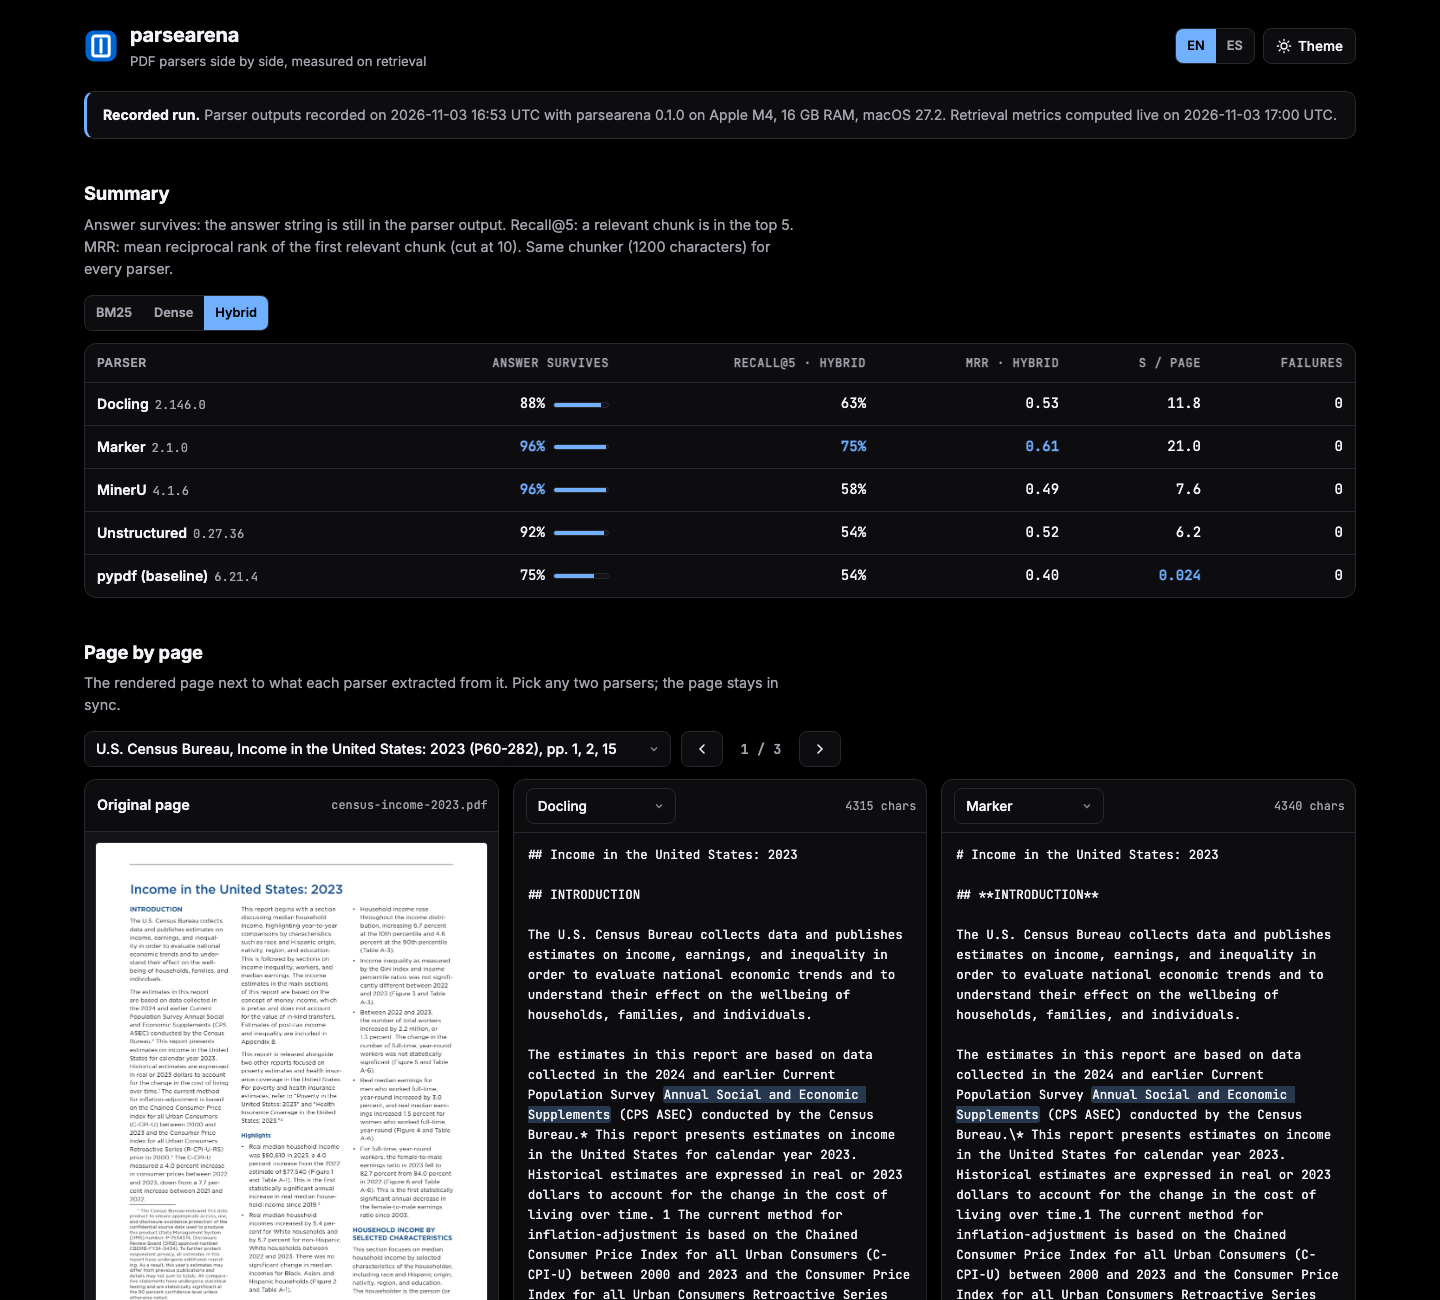
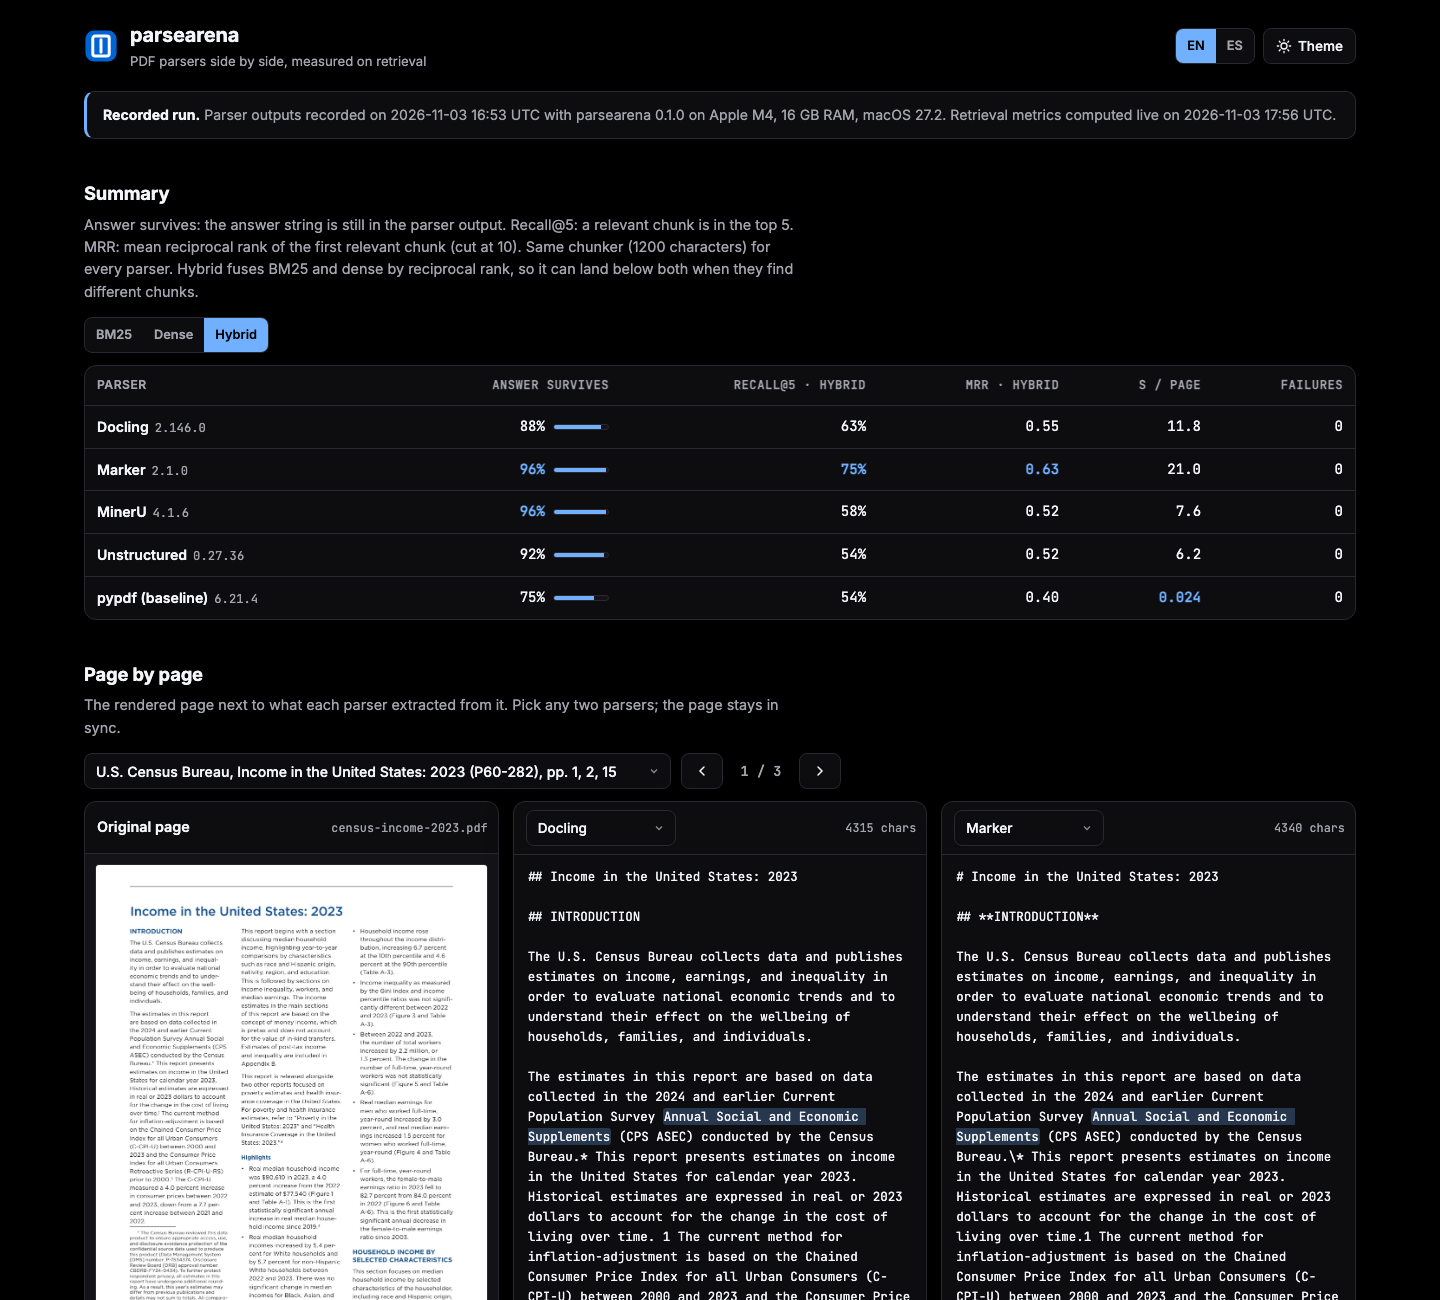
fix: tie-aware rank fusion, quiet embedding download, release 0.1.1

diff --git a/src/parsearena/report_template.html b/src/parsearena/report_template.html
@@ -228,7 +228,7 @@ pre.out mark { background: var(--mark); color: inherit; border-radius: 3px; padd
       tagline: "PDF parsers side by side, measured on retrieval",
       theme: "Theme",
       h_summary: "Summary", h_viewer: "Page by page", h_questions: "Questions", h_timing: "Timing", h_failures: "Failures",
-      summary_sub: "Answer survives: the answer string is still in the parser output. Recall@{k}: a relevant chunk is in the top {k}. MRR: mean reciprocal rank of the first relevant chunk (cut at {c}). Same chunker ({chars} characters) for every parser.",
+      summary_sub: "Answer survives: the answer string is still in the parser output. Recall@{k}: a relevant chunk is in the top {k}. MRR: mean reciprocal rank of the first relevant chunk (cut at {c}). Same chunker ({chars} characters) for every parser. Hybrid fuses BM25 and dense by reciprocal rank, so it can land below both when they find different chunks.",
       viewer_sub: "The rendered page next to what each parser extracted from it. Pick any two parsers; the page stays in sync.",
       questions_sub: "Rank of the first chunk that contains the answer, for the selected retrieval method.",
       timing_sub: "Seconds per page exclude model loading: each parser first converts an untimed two-page warm-up PDF (one text page, one image-only page), reported as warm-up.",
@@ -248,7 +248,7 @@ pre.out mark { background: var(--mark); color: inherit; border-radius: 3px; padd
       tagline: "Parsers de PDF lado a lado, medidos en recuperación",
       theme: "Tema",
       h_summary: "Resumen", h_viewer: "Página a página", h_questions: "Preguntas", h_timing: "Tiempos", h_failures: "Fallos",
-      summary_sub: "La respuesta sobrevive: el texto de la respuesta sigue en la salida del parser. Recall@{k}: un fragmento relevante está entre los {k} primeros. MRR: rango recíproco medio del primer fragmento relevante (corte en {c}). El mismo troceado ({chars} caracteres) para todos.",
+      summary_sub: "La respuesta sobrevive: el texto de la respuesta sigue en la salida del parser. Recall@{k}: un fragmento relevante está entre los {k} primeros. MRR: rango recíproco medio del primer fragmento relevante (corte en {c}). El mismo troceado ({chars} caracteres) para todos. La híbrida fusiona BM25 y densa por rango recíproco, así que puede quedar por debajo de ambas si encuentran fragmentos distintos.",
       viewer_sub: "La página renderizada junto a lo que cada parser extrajo de ella. Elige dos parsers; la página va sincronizada.",
       questions_sub: "Posición del primer fragmento que contiene la respuesta, con el método de recuperación elegido.",
       timing_sub: "Los segundos por página no incluyen la carga de modelos: cada parser convierte antes, sin cronometrar, un PDF de calentamiento de dos páginas (una con texto y otra solo imagen).",

diff --git a/src/parsearena/retrieval.py b/src/parsearena/retrieval.py
@@ -54,6 +54,7 @@ class FastEmbedder:
     """Local ONNX embeddings through fastembed. No torch, no network after the first download."""
 
     def __init__(self, model: str = DEFAULT_EMBED_MODEL, cache_dir: str | None = None) -> None:
+        quiet_hf_hub()
         from fastembed import TextEmbedding
 
         self.name = model
@@ -68,21 +69,70 @@ class FastEmbedder:
         return _unit(np.array(list(self._model.query_embed(list(texts))), dtype=np.float32))
 
 
+def quiet_hf_hub() -> None:
+    """Silence Hugging Face Hub progress bars and warnings; the CLI prints its own line."""
+    import logging
+    import os
+    import warnings
+
+    os.environ.setdefault("HF_HUB_DISABLE_PROGRESS_BARS", "1")
+    os.environ.setdefault("HF_HUB_VERBOSITY", "error")
+    os.environ.setdefault("HF_HUB_DISABLE_TELEMETRY", "1")
+    os.environ.setdefault("TQDM_DISABLE", "1")
+    logging.getLogger("huggingface_hub").setLevel(logging.ERROR)
+    warnings.filterwarnings("ignore", module="huggingface_hub")
+    try:
+        from huggingface_hub.utils import disable_progress_bars
+        from huggingface_hub.utils import logging as hf_logging
+
+        disable_progress_bars()
+        hf_logging.set_verbosity_error()
+    except Exception:  # noqa: BLE001 - only cosmetic
+        pass
+    try:
+        from loguru import logger
+
+        logger.disable("fastembed")
+    except Exception:  # noqa: BLE001
+        pass
+
+
+def model_is_cached(model: str, cache_dir: str) -> bool:
+    from pathlib import Path
+
+    key = model.split("/")[-1].lower()
+    root = Path(cache_dir)
+    return root.exists() and any(key in p.name.lower() for p in root.iterdir() if p.is_dir())
+
+
 def _unit(m: np.ndarray) -> np.ndarray:
     norms = np.linalg.norm(m, axis=1, keepdims=True)
     norms[norms == 0] = 1.0
     return m / norms
 
 
-def ranking(scores: Sequence[float]) -> list[int]:
-    """Indices sorted by score, best first; ties keep corpus order."""
-    return sorted(range(len(scores)), key=lambda i: (-scores[i], i))
+def score_ranks(scores: Sequence[float], drop_zero: bool = False) -> dict[int, int]:
+    """Rank of each item, best = 1. Tied scores share a rank (1, 2, 2, 4).
+
+    With ``drop_zero`` items scoring 0 are left out: for BM25 a zero score means
+    the chunk shares no term with the query, so it was not retrieved at all and
+    must not get a position (or a share of a fusion) from its place in the corpus.
+    """
+    items = [(i, s) for i, s in enumerate(scores) if not (drop_zero and s <= 0)]
+    items.sort(key=lambda t: -t[1])
+    ranks: dict[int, int] = {}
+    prev, rank = None, 0
+    for pos, (i, s) in enumerate(items, start=1):
+        if s != prev:
+            rank, prev = pos, s
+        ranks[i] = rank
+    return ranks
 
 
-def rrf(rankings: Sequence[Sequence[int]], k: int = 60) -> list[int]:
-    """Reciprocal rank fusion of several rankings over the same items."""
+def rrf(rank_maps: Sequence[dict[int, int]], k: int = 60) -> dict[int, float]:
+    """Reciprocal rank fusion: sum of 1 / (k + rank) over the lists an item appears in."""
     fused: dict[int, float] = {}
-    for r in rankings:
-        for pos, idx in enumerate(r):
-            fused[idx] = fused.get(idx, 0.0) + 1.0 / (k + pos + 1)
-    return sorted(fused, key=lambda i: (-fused[i], i))
+    for ranks in rank_maps:
+        for idx, rank in ranks.items():
+            fused[idx] = fused.get(idx, 0.0) + 1.0 / (k + rank)
+    return fused

diff --git a/tests/test_retrieval.py b/tests/test_retrieval.py
@@ -1,21 +1,36 @@
-from parsearena.retrieval import BM25, ranking, rrf
+from parsearena.retrieval import BM25, rrf, score_ranks
 
 
 def test_bm25_prefers_matching_document():
     docs = ["the cat sat on the mat", "median household income was 80,610", "dogs and cats"]
     scores = BM25(docs).scores("median income")
-    assert ranking(scores)[0] == 1
+    assert score_ranks(scores, drop_zero=True) == {1: 1}
 
 
 def test_bm25_empty_query_scores_zero():
     assert BM25(["a b", "c"]).scores("") == [0.0, 0.0]
 
 
-def test_ranking_is_stable_on_ties():
-    assert ranking([1.0, 2.0, 2.0, 0.0]) == [1, 2, 0, 3]
+def test_ties_share_a_rank():
+    assert score_ranks([1.0, 2.0, 2.0, 0.0]) == {1: 1, 2: 1, 0: 3, 3: 4}
 
 
-def test_rrf_combines_rankings():
-    fused = rrf([[0, 1, 2], [2, 1, 0]])
-    assert fused == [0, 2, 1]
-    assert rrf([[3, 1], [3, 2]])[0] == 3
+def test_zero_bm25_scores_are_not_retrieved():
+    assert score_ranks([0.0, 3.0, 0.0], drop_zero=True) == {1: 1}
+
+
+def test_rrf_sums_reciprocal_ranks():
+    fused = rrf([{0: 1, 1: 2}, {1: 1, 2: 2}], k=60)
+    assert fused[1] == 1 / 62 + 1 / 61
+    assert fused[0] == 1 / 61 and fused[2] == 1 / 62
+    assert max(fused, key=fused.get) == 1
+
+
+def test_rrf_does_not_favour_corpus_order_for_unmatched_chunks():
+    # chunk 0 and 2 have no BM25 match; dense prefers chunk 2. Chunk 0 must not win
+    # just because it comes first in the corpus.
+    bm25 = score_ranks([0.0, 5.0, 0.0], drop_zero=True)
+    dense = score_ranks([0.1, 0.2, 0.9])
+    fused = rrf([bm25, dense])
+    ranks = score_ranks([fused.get(i, 0.0) for i in range(3)])
+    assert ranks[2] < ranks[0]

diff --git a/src/parsearena/evaluate.py b/src/parsearena/evaluate.py
@@ -4,7 +4,7 @@ from __future__ import annotations
 
 from dataclasses import dataclass, field
 
-from .retrieval import BM25, Embedder, ranking, rrf
+from .retrieval import BM25, Embedder, rrf, score_ranks
 from .text import chunk_text, contains, normalize
 
 MRR_CUTOFF = 10
@@ -36,11 +36,9 @@ class DocOutput:
         return self.error is None
 
 
-def _first_hit(order: list[int], relevant: set[int]) -> int | None:
-    for pos, idx in enumerate(order, start=1):
-        if idx in relevant:
-            return pos
-    return None
+def _first_hit(ranks: dict[int, int], relevant: set[int]) -> int | None:
+    hits = [ranks[i] for i in relevant if i in ranks]
+    return min(hits) if hits else None
 
 
 def evaluate(
@@ -82,10 +80,11 @@ def evaluate(
             }
             ranks: dict[str, int | None] = {}
             if texts:
-                orders = {"bm25": ranking(bm25.scores(q.q))}
+                orders = {"bm25": score_ranks(bm25.scores(q.q), drop_zero=True)}
                 if c_vecs is not None and q_vecs is not None:
-                    orders["dense"] = ranking((c_vecs @ q_vecs[qi]).tolist())
-                    orders["hybrid"] = rrf([orders["bm25"], orders["dense"]])
+                    orders["dense"] = score_ranks((c_vecs @ q_vecs[qi]).tolist())
+                    fused = rrf([orders["bm25"], orders["dense"]])
+                    orders["hybrid"] = score_ranks([fused.get(i, 0.0) for i in range(len(texts))])
                 for m in methods:
                     ranks[m] = _first_hit(orders[m], relevant)
             else:

diff --git a/src/parsearena/cli.py b/src/parsearena/cli.py
@@ -49,10 +49,17 @@ def _embedder(no_dense: bool, model: str):
     if no_dense:
         return None
     try:
-        from .retrieval import FastEmbedder
+        from .retrieval import FastEmbedder, model_is_cached
 
-        with console.status(f"Loading embedding model {model} (first time downloads it)..."):
-            return FastEmbedder(model, cache_dir=str(home() / "models"))
+        cache = str(home() / "models")
+        if model_is_cached(model, cache):
+            msg = f"Loading embedding model {model}..."
+        else:
+            size = ", about 65 MB" if model == DEFAULT_EMBED_MODEL else ""
+            msg = f"Downloading embedding model {model} (one time{size})..."
+            console.print(msg)
+        with console.status(msg):
+            return FastEmbedder(model, cache_dir=cache)
     except Exception as exc:  # network errors, unknown model names
         raise UserError(
             f"Could not load the embedding model {model}: {type(exc).__name__}: {exc}"[:400],

diff --git a/tests/test_cli.py b/tests/test_cli.py
@@ -73,7 +73,7 @@ def test_missing_api_key_message(tmp_path):
 
 def test_version_and_help():
     proc = cli("--version")
-    assert proc.returncode == 0 and "parsearena 0.1.0" in proc.stdout
+    assert proc.returncode == 0 and "parsearena 0.1.1" in proc.stdout
     assert app.info.help.startswith("Run your PDFs")
     proc = cli("parsers")
     assert proc.returncode == 0 and "docling==2.146.0" in proc.stdout

diff --git a/src/parsearena/__init__.py b/src/parsearena/__init__.py
@@ -1,3 +1,3 @@
 """parsearena: compare PDF parsers on your own documents and measure retrieval."""
 
-__version__ = "0.1.0"
+__version__ = "0.1.1"

diff --git a/README.es.md b/README.es.md
@@ -41,7 +41,7 @@ La demo reproduce salidas grabadas de una ejecución real y calcula la recuperac
 claves, sin GPU, sin Docker y sin descargar parsers.
 
 ```bash
-uvx --from git+https://github.com/diegoperezg7/parsearena@v0.1.0 parsearena demo
+uvx --from git+https://github.com/diegoperezg7/parsearena@v0.1.1 parsearena demo
 ```
 
 o desde un clon:
@@ -50,7 +50,8 @@ o desde un clon:
 git clone https://github.com/diegoperezg7/parsearena && cd parsearena && uv run parsearena demo
 ```
 
-Escribe `parsearena-demo/index.html` y lo abre. `uvx parsearena` llegará con la publicación en PyPI.
+Escribe `parsearena-demo/index.html` y lo abre. La primera vez tarda unos 75 s (dependencias y un
+modelo de embeddings de 65 MB); después, unos segundos. `uvx parsearena` llegará con la publicación en PyPI.
 
 Después, con tus PDF:
 
@@ -67,9 +68,9 @@ recall@5 con recuperación híbrida (BM25 + `BAAI/bge-small-en-v1.5`, fusionados
 
 | Parser | Respuesta sobrevive | Recall@5 BM25 | Recall@5 densa | Recall@5 híbrida | MRR híbrida | s / página |
 | --- | ---: | ---: | ---: | ---: | ---: | ---: |
-| Docling 2.146.0 | 88% | 67% | 67% | 63% | 0,53 | 11,8 |
-| Marker 2.1.0 | **96%** | **79%** | **67%** | **75%** | **0,61** | 21,0 |
-| MinerU 4.1.6 | **96%** | 63% | 58% | 58% | 0,49 | 7,6 |
+| Docling 2.146.0 | 88% | 67% | 67% | 63% | 0,55 | 11,8 |
+| Marker 2.1.0 | **96%** | **79%** | **67%** | **75%** | **0,63** | 21,0 |
+| MinerU 4.1.6 | **96%** | 63% | 58% | 58% | 0,52 | 7,6 |
 | Unstructured 0.27.36 | 92% | 67% | 54% | 54% | 0,52 | 6,2 |
 | pypdf 6,21.4 (línea base) | 75% | 58% | 46% | 54% | 0,40 | 0,02 |
 
@@ -82,8 +83,10 @@ Lo que dicen las cifras en estas páginas:
   de dígitos (`/dollar.tab/eight.tab/zero.tab...`), así que esos valores solo sobreviven por la tabla.
 - **Las tablas sobreviven, pero no siempre de forma recuperable.** MinerU conserva todos los números de
   la tabla A-1, pero junta varias etiquetas de fila en una sola celda HTML. Con el mismo troceado, la
-  etiqueta y su valor quedan separados, y las preguntas de la tabla caen al puesto 16 a 30 con
-  recuperación híbrida, cuando los demás las dejan casi siempre entre los 10 primeros.
+  etiqueta y su valor quedan separados: el fragmento con los números no comparte ninguna palabra con
+  la pregunta, así que BM25 no lo recupera, la búsqueda densa lo pone entre el puesto 7 y el 16, y la
+  fusión lo deja entre el 31 y el 37. Los demás parsers dejan esas preguntas casi siempre entre los 10
+  primeros.
 - **Pies de página.** Docling y Marker quitan el pie de la primera página, así que "NeurIPS 2023"
   desaparece de su salida. Unstructured mezcla la tabla de resultados de DPO con el texto de alrededor
   y pierde la celda 0.36.
@@ -127,6 +130,10 @@ flowchart LR
    con embeddings locales ([fastembed](https://github.com/qdrant/fastembed), ONNX, sin torch) y con su
    fusión por rango recíproco. Un fragmento es relevante si es del documento de la pregunta y contiene
    la respuesta.
+   La híbrida puede quedar por debajo de sus dos partes: la fusión premia los fragmentos que ambos
+   métodos ponen arriba, así que uno que solo encuentra un método (por ejemplo, una celda de tabla sin
+   ninguna palabra de la pregunta) baja en la lista fusionada. Los fragmentos con BM25 igual a 0 cuentan
+   como no recuperados, y las puntuaciones empatadas comparten posición.
 5. **Métricas.** *Respuesta sobrevive*: el texto de la respuesta sigue en la salida tras normalizar
    (mayúsculas, espacios, marcado markdown y HTML). *Recall@k*: hay un fragmento relevante entre los k
    primeros. *MRR*: rango recíproco del primer fragmento relevante, con corte en 10.

diff --git a/README.md b/README.md
@@ -41,7 +41,7 @@ The demo replays outputs recorded from a real run and computes retrieval live. N
 no Docker, no parser downloads.
 
 ```bash
-uvx --from git+https://github.com/diegoperezg7/parsearena@v0.1.0 parsearena demo
+uvx --from git+https://github.com/diegoperezg7/parsearena@v0.1.1 parsearena demo
 ```
 
 or from a clone:
@@ -50,7 +50,8 @@ or from a clone:
 git clone https://github.com/diegoperezg7/parsearena && cd parsearena && uv run parsearena demo
 ```
 
-It writes `parsearena-demo/index.html` and opens it. `uvx parsearena` is coming to PyPI.
+It writes `parsearena-demo/index.html` and opens it. The first run takes about 75 s (dependencies and a
+65 MB embedding model); later runs take a few seconds. `uvx parsearena` is coming to PyPI.
 
 Then run it on your own PDFs:
 
@@ -67,9 +68,9 @@ recall@5 with hybrid retrieval (BM25 + `BAAI/bge-small-en-v1.5`, fused with reci
 
 | Parser | Answer survives | Recall@5 BM25 | Recall@5 dense | Recall@5 hybrid | MRR hybrid | s / page |
 | --- | ---: | ---: | ---: | ---: | ---: | ---: |
-| Docling 2.146.0 | 88% | 67% | 67% | 63% | 0.53 | 11.8 |
-| Marker 2.1.0 | **96%** | **79%** | **67%** | **75%** | **0.61** | 21.0 |
-| MinerU 4.1.6 | **96%** | 63% | 58% | 58% | 0.49 | 7.6 |
+| Docling 2.146.0 | 88% | 67% | 67% | 63% | 0.55 | 11.8 |
+| Marker 2.1.0 | **96%** | **79%** | **67%** | **75%** | **0.63** | 21.0 |
+| MinerU 4.1.6 | **96%** | 63% | 58% | 58% | 0.52 | 7.6 |
 | Unstructured 0.27.36 | 92% | 67% | 54% | 54% | 0.52 | 6.2 |
 | pypdf 6.21.4 (baseline) | 75% | 58% | 46% | 54% | 0.40 | 0.02 |
 
@@ -81,8 +82,9 @@ What the numbers say on these pages:
   (`/dollar.tab/eight.tab/zero.tab...`), so the chart values only survive through the table page.
 - **Tables survive, but not always in a retrievable shape.** MinerU keeps every number of Table A-1,
   yet it merges several row labels into one HTML cell. With the same chunker, the label and its value
-  end up apart, and table questions rank 16th to 30th with hybrid retrieval, where the other parsers mostly place
-  them in the top 10.
+  end up apart: the chunk with the numbers shares no word with the question, so BM25 never retrieves
+  it, dense retrieval ranks it 7th to 16th, and the fused list puts it 31st to 37th. The other parsers
+  mostly keep those questions in the top 10.
 - **Page furniture.** Docling and Marker drop the first-page footer, so "NeurIPS 2023" is gone from
   their output. Unstructured merges the DPO results table with the body text around it and loses its
   0.36 cell.
@@ -124,6 +126,9 @@ flowchart LR
    embeddings ([fastembed](https://github.com/qdrant/fastembed), ONNX, no torch) and with their
    reciprocal-rank fusion. A chunk is relevant if it belongs to the question's document and contains
    the answer string.
+   Hybrid can score below both of its parts: fusion rewards chunks that both methods rank well, so a
+   chunk that only one of them finds (a table cell with none of the query words, say) drops in the
+   fused list. BM25 chunks with a score of 0 are treated as not retrieved, and tied scores share a rank.
 5. **Metrics.** *Answer survives*: the answer string is still in the parser output after
    normalization (case, whitespace, markdown and HTML markup). *Recall@k*: a relevant chunk is in the
    top k. *MRR*: reciprocal rank of the first relevant chunk, cut at 10.

diff --git a/CHANGELOG.md b/CHANGELOG.md
@@ -1,5 +1,20 @@
 # Changelog
 
+## [0.1.1] - 2026-11-03
+
+### Fixed
+- Hybrid retrieval: BM25 chunks with a score of 0 no longer take part in the fusion with a position
+  taken from their place in the corpus, and tied scores now share a rank. Recall@5 of the demo is
+  unchanged; some MRR values move by 0.02 to 0.03.
+- `--gen-questions`: a timeout is reported as a timeout, not as an unreachable server
+  (`PARSEARENA_LLM_TIMEOUT` sets the limit).
+
+### Changed
+- The first download of the embedding model prints one line instead of Hugging Face progress bars
+  and warnings.
+- README and viewer explain why hybrid can score below BM25 and dense, and give the real first-run
+  time of the quickstart.
+
 ## [0.1.0] - 2026-11-03
 
 First release.
